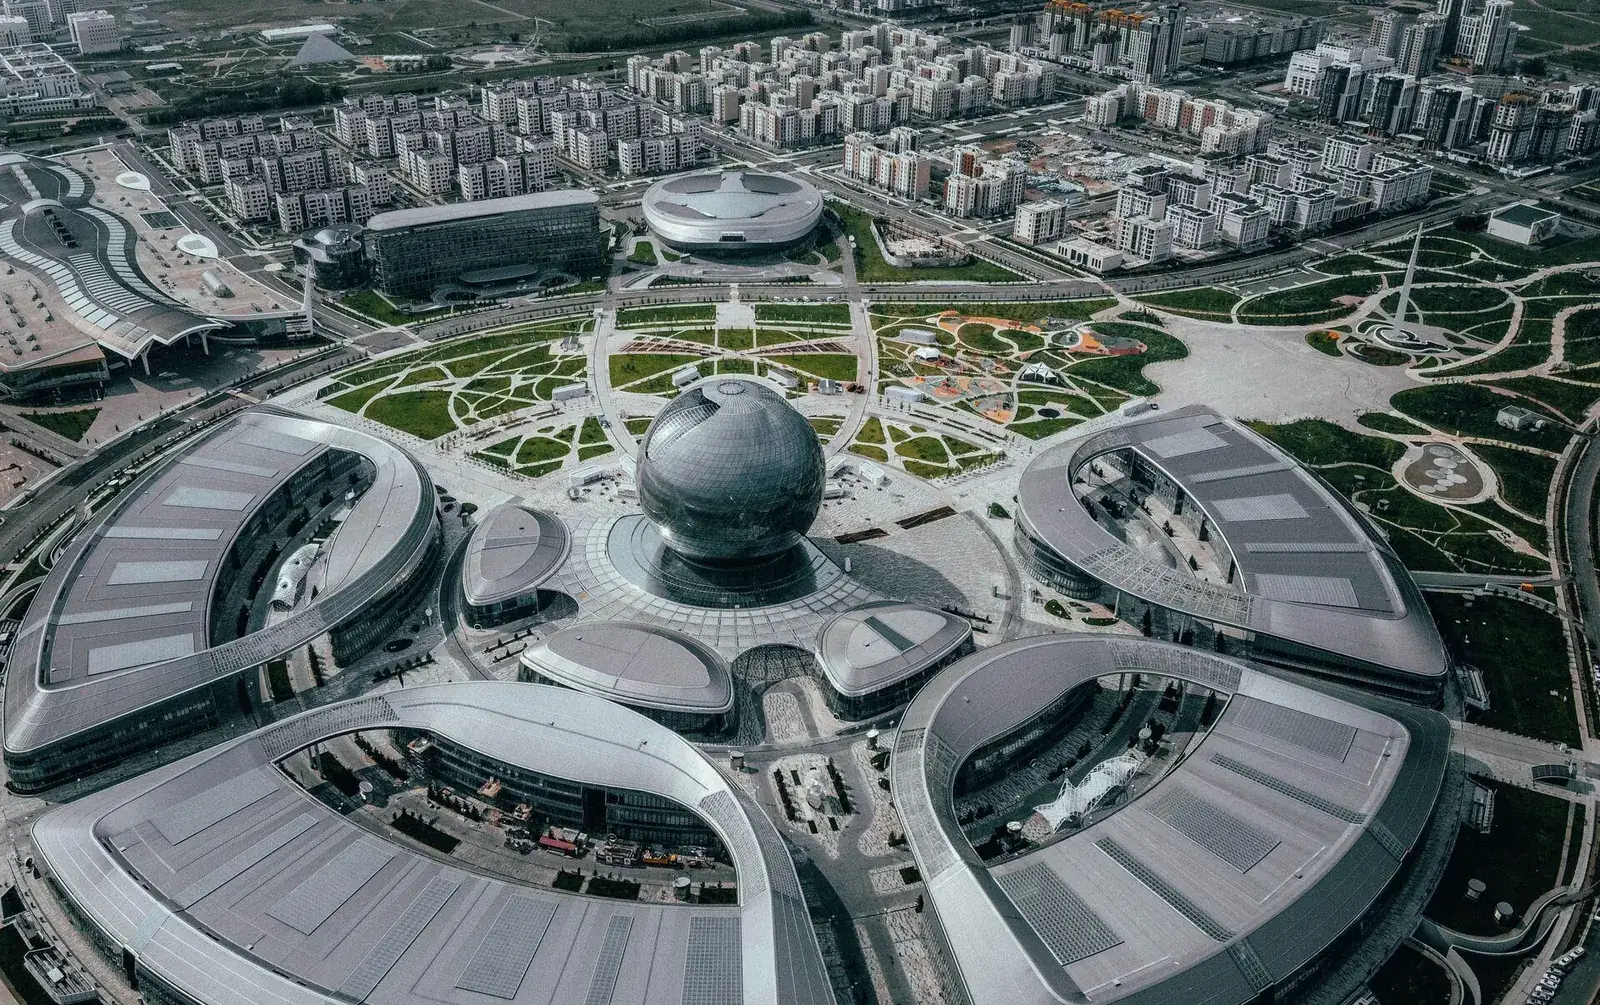
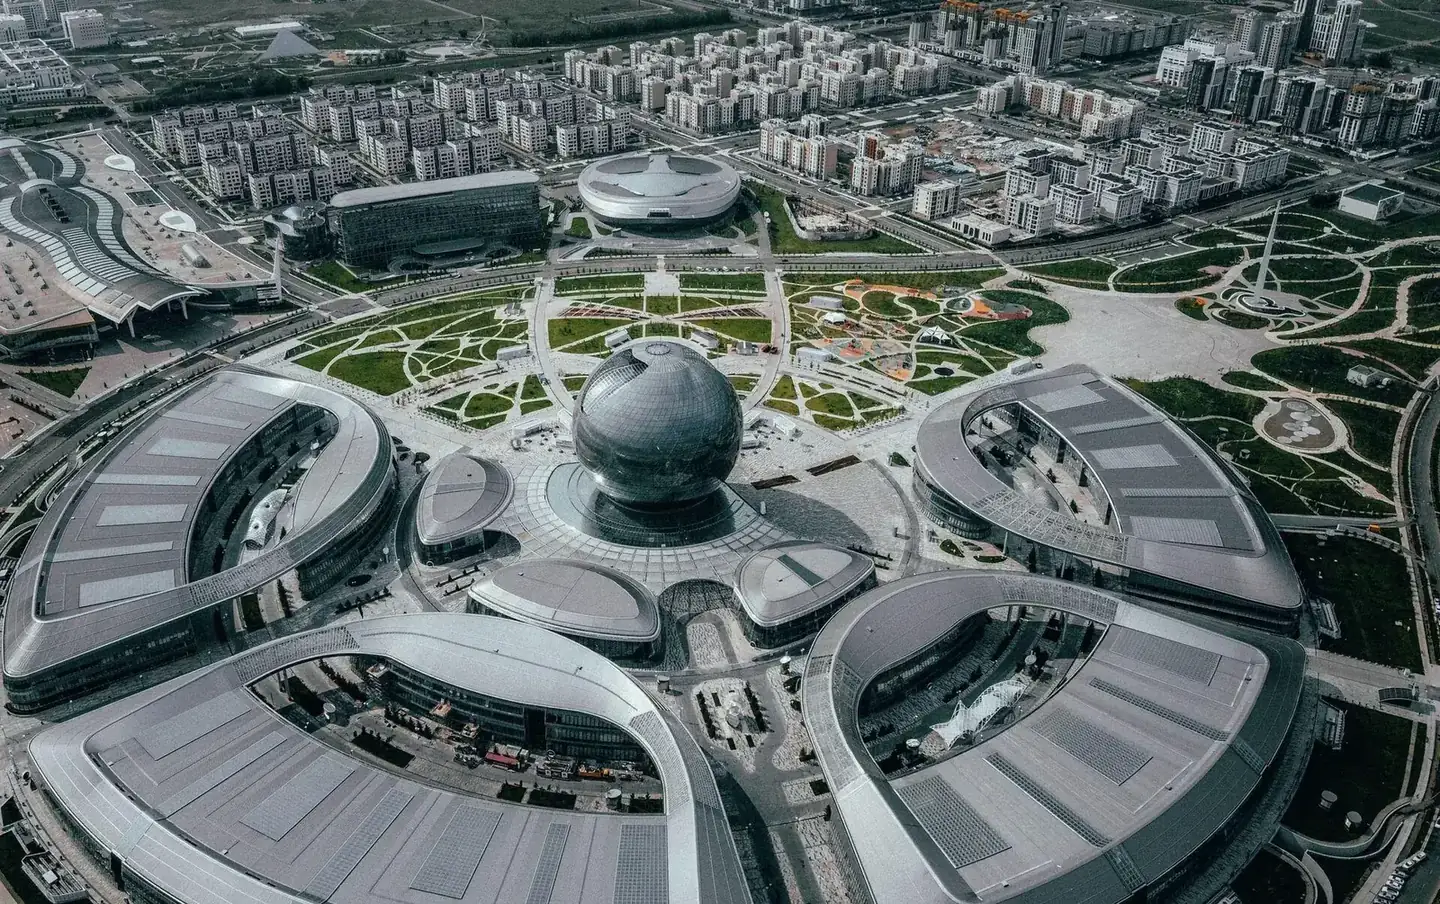
Облегчение плит: геометрия без замеров на каждом кадре, затемнённые фото готовыми файлами, шапка без размытия

diff --git a/styles.css b/styles.css
@@ -58,7 +58,7 @@ h3{font:600 20px/1.25 var(--fd)}
 .lnk:hover i{transform:translateX(4px)}
 
 /* ---------- шапка ---------- */
-.hdr{position:fixed;left:0;right:0;top:0;z-index:50;height:var(--hdr);color:#fff;background:rgba(14,16,18,.72);backdrop-filter:blur(14px);-webkit-backdrop-filter:blur(14px);transition:background .3s,box-shadow .3s}
+.hdr{position:fixed;left:0;right:0;top:0;z-index:50;height:var(--hdr);color:#fff;background:rgba(14,16,18,.9);transition:background .3s,box-shadow .3s}
 .hdr.scrolled{background:rgba(14,16,18,.92);box-shadow:0 1px 0 rgba(255,255,255,.07),0 10px 30px rgba(0,0,0,.25)}
 .hdr-in{position:relative;z-index:1;width:min(1320px,100% - 2*var(--gut));margin:0 auto;height:100%;display:flex;align-items:center;gap:18px}
 .brand{display:block;flex:0 1 auto;min-width:0;position:relative;z-index:3}
@@ -83,12 +83,12 @@ h3{font:600 20px/1.25 var(--fd)}
 .burger span:first-child{top:17px}.burger span+span{top:25px}
 body.menu-open .burger span:first-child{top:21px;transform:rotate(45deg)}
 body.menu-open .burger span+span{top:21px;transform:rotate(-45deg)}
-body.menu-open .hdr{backdrop-filter:none;-webkit-backdrop-filter:none;background:var(--ink)}
+body.menu-open .hdr{background:var(--ink)}
 /* порог бургера = порог меню: 1180px (по казахским подписям) */
 @media (max-width:1180px){.nav{display:none}.burger{display:block}.hdr-tel{display:none}}
 @media (max-width:760px){.ico-ig{display:none}:root{--hdr:62px}.brand img{height:34px}}
 @media (max-width:420px){.ico-tel{display:none}.brand img{height:30px}}
-@media (hover:none){.hdr{backdrop-filter:none;-webkit-backdrop-filter:none;background:rgba(14,16,18,.94)}}
+@media (hover:none){.hdr{background:rgba(14,16,18,.94)}}
 
 /* ---------- меню ---------- */
 .menu{position:fixed;inset:0;z-index:40;background:var(--ink);color:#fff;transform:translateY(-8px);opacity:0;visibility:hidden;transition:opacity .28s,transform .32s var(--ease),visibility 0s .32s;overflow-y:auto;overscroll-behavior:contain}
@@ -121,9 +121,8 @@ body.menu-open .sticky{visibility:hidden!important;transform:translateY(120%)!im
 /* ---------- сигнатура: след прохода. Чистый кадр поверх «грязного», вырезан полосой со скруглённым фронтом ---------- */
 .ph{position:absolute;inset:0;overflow:hidden;container-type:size;--p1:clamp(0,calc(var(--open)/.62),1);--p2:clamp(0,calc((var(--open) - .62)/.38),1);--side:calc(31cqw*(1 - var(--p2)))}
 .ph img,.ph picture{position:absolute;inset:0;width:100%;height:100%;object-fit:cover;object-position:50% 50%;display:block}
-.ph-dirty{filter:grayscale(.9) brightness(.52) contrast(.92)}
 .ph-clean{position:absolute;inset:0;overflow:hidden;clip-path:inset(-2% var(--side) calc(100% - var(--p1)*112%) var(--side) round calc(19cqw*(1 - var(--p2))));transform:scale(calc(1 + .08*var(--exit)));transform-origin:50% 50%}
-.ph-clean .wet{position:absolute;left:0;right:0;height:18%;top:calc(var(--p1)*112% - 18%);background:linear-gradient(to bottom,rgba(214,231,242,0),rgba(214,231,242,.28) 55%,rgba(255,255,255,.72) 96%,#fff);opacity:calc(1 - var(--p2));pointer-events:none}
+.ph-clean .wet{position:absolute;left:0;right:0;height:18%;top:0;transform:translateY(calc((var(--p1)*6.2222 - 1)*100%));will-change:transform,opacity;background:linear-gradient(to bottom,rgba(214,231,242,0),rgba(214,231,242,.28) 55%,rgba(255,255,255,.72) 96%,#fff);opacity:calc(1 - var(--p2));pointer-events:none}
 .ph-shade{position:absolute;inset:0;background:linear-gradient(to top,rgba(14,16,18,.9) 0,rgba(14,16,18,.55) 38%,rgba(14,16,18,.12) 70%,rgba(14,16,18,.5) 100%);pointer-events:none}
 .ph-hero{--p1:clamp(0,calc(var(--intro)/.86),1);--p2:clamp(0,calc(var(--stay)/.55),1)}
 .ph-hero .ph-clean{transform:scale(calc(1 + .05*var(--stay)))}
@@ -153,11 +152,11 @@ h1 .l2{font-size:var(--fs2,clamp(40px,min(8.6vw,13svh),128px));letter-spacing:-.
 /* ---------- продуктовые плиты ---------- */
 .prod{background:radial-gradient(120% 90% at 50% 100%,var(--tint) 0,var(--coal) 55%,var(--ink) 100%)}
 .track{position:absolute;left:50%;top:0;bottom:0;width:min(46vw,560px);transform:translateX(-50%);border-radius:0 0 300px 300px;background:linear-gradient(to bottom,rgba(255,255,255,0) 0,rgba(255,255,255,.035) 40%,rgba(255,255,255,.07) 100%);pointer-events:none}
-.track::after{content:"";position:absolute;left:8%;right:8%;bottom:8%;height:18%;border-radius:50%;background:radial-gradient(closest-side,rgba(214,231,242,.18),rgba(214,231,242,0));filter:blur(14px)}
+.track::after{content:"";position:absolute;left:8%;right:8%;bottom:8%;height:18%;border-radius:50%;background:radial-gradient(closest-side,rgba(214,231,242,.14),rgba(214,231,242,0))}
 .prod-in{justify-content:space-between;padding-bottom:clamp(28px,5svh,54px)}
 .prod .lead{max-width:none}
 .obj{position:relative;flex:1 1 0;min-height:0;display:flex;flex-direction:column;align-items:center;justify-content:center;width:100%;margin:10px 0}
-.obj img{flex:1 1 0;min-height:0;width:min(72%,620px);height:auto;max-height:100%;object-fit:contain;object-position:50% 100%;filter:drop-shadow(0 30px 40px rgba(0,0,0,.55));opacity:calc(clamp(0,calc((var(--enter) - .25)/.5),1));transform:translateY(calc(70px*(1 - clamp(0,calc((var(--enter) - .25)/.5),1)))) scale(calc(.9 + .1*clamp(0,calc((var(--enter) - .25)/.5),1)));transition:none}
+.obj img{flex:1 1 0;min-height:0;width:min(72%,620px);height:auto;max-height:100%;object-fit:contain;object-position:50% 100%;filter:drop-shadow(0 30px 40px rgba(0,0,0,.55));opacity:calc(clamp(0,calc((var(--enter) - .25)/.5),1));transform:translateY(calc(70px*(1 - clamp(0,calc((var(--enter) - .25)/.5),1))));will-change:transform,opacity;transition:none}
 .pw.settled .obj img{animation:bob 6.5s ease-in-out infinite}
 @keyframes bob{0%,100%{translate:0 0}50%{translate:0 -8px}}
 .obj figcaption{flex:0 0 auto;margin-top:12px;display:flex;align-items:center;gap:12px;font:500 13px/1 var(--fd);letter-spacing:.1em;text-transform:uppercase;color:var(--mute2)}

diff --git a/index.html b/index.html
@@ -31,7 +31,7 @@
 <link rel="stylesheet" href="https://fonts.googleapis.com/css2?family=IBM+Plex+Sans:wght@400;500;600;700&display=swap">
 <link rel="preload" as="image" href="assets/img/hero.webp" media="(min-width: 761px)" fetchpriority="high">
 <link rel="preload" as="image" href="assets/img/hero-m.webp" media="(max-width: 760px)" fetchpriority="high">
-<link rel="stylesheet" href="styles.css?v=20261015-1">
+<link rel="stylesheet" href="styles.css?v=20261015-2">
 <script type="application/ld+json">
 {
   "@context": "https://schema.org",
@@ -135,7 +135,7 @@
 <div class="pw pw-hero" id="top">
   <section class="plate hero" aria-label="Главный экран">
     <div class="ph ph-hero">
-      <picture class="ph-dirty"><source media="(max-width:760px)" srcset="assets/img/hero-m.webp"><img src="assets/img/hero.webp" alt="" width="1920" height="1175" fetchpriority="high" decoding="async"></picture>
+      <picture class="ph-dirty"><source media="(max-width:760px)" srcset="assets/img/hero-m-dirty.webp"><img src="assets/img/hero-dirty.webp" alt="" width="1280" height="783" fetchpriority="high" decoding="async"></picture>
       <picture class="ph-clean"><source media="(max-width:760px)" srcset="assets/img/hero-m.webp"><img src="assets/img/hero.webp" alt="Поломоечные райдеры Comac на складе клиента, поставка Vista Clean Technology" width="1920" height="1175" fetchpriority="high" decoding="async"><i class="wet"></i></picture>
       <div class="ph-shade"></div>
     </div>
@@ -688,7 +688,7 @@
 <div class="pw pw-photo" id="servis">
   <section class="plate photo">
     <div class="ph">
-      <img class="ph-dirty" src="assets/img/service.webp" alt="" width="1003" height="668" loading="lazy" decoding="async">
+      <img class="ph-dirty" src="assets/img/service-dirty.webp" alt="" width="1003" height="668" loading="lazy" decoding="async">
       <div class="ph-clean"><img src="assets/img/service.webp" alt="Инженеры сервис-центра Vista ремонтируют поломоечную машину" width="1003" height="668" loading="lazy" decoding="async"><i class="wet"></i></div>
       <div class="ph-shade"></div>
     </div>
@@ -743,8 +743,8 @@
 <div class="pw pw-photo" id="obekty">
   <section class="plate photo photo-obj">
     <div class="ph">
-      <img class="ph-dirty" src="assets/img/expo.webp" alt="" width="1600" height="1005" loading="lazy" decoding="async">
-      <div class="ph-clean"><img src="assets/img/expo.webp" alt="Астана, ЭКСПО с высоты: объект, укомплектованный уборочной техникой Vista" width="1600" height="1005" loading="lazy" decoding="async"><i class="wet"></i></div>
+      <img class="ph-dirty" src="assets/img/expo-dirty.webp" alt="" width="1280" height="804" loading="lazy" decoding="async">
+      <div class="ph-clean"><img src="assets/img/expo.webp" alt="Астана, ЭКСПО с высоты: объект, укомплектованный уборочной техникой Vista" width="1440" height="904" loading="lazy" decoding="async"><i class="wet"></i></div>
       <div class="ph-shade"></div>
     </div>
     <div class="pl-in photo-in">
@@ -852,6 +852,6 @@
   <a class="st-ig" href="https://www.instagram.com/vista.clean/" target="_blank" rel="noopener" aria-label="Instagram"><svg width="22" height="22" aria-hidden="true"><use href="#ic-ig"/></svg></a>
 </div>
 
-<script src="script.js?v=20261015-1" defer></script>
+<script src="script.js?v=20261015-2" defer></script>
 </body>
 </html>

diff --git a/script.js b/script.js
@@ -208,29 +208,36 @@
   var INTRO = (location.hash.length > 1 || W.pageYOffset > 80 || REDUCED) ? 1 : 0;
   var introStart = 0, ticking = false, lastTs = 0;
   var st = pws.map(function () { return { open: -1, out: {}, txts: null, on: null }; });
+  /* геометрия плит: меряем один раз и при изменении страницы, а не на каждом кадре */
+  var geo = null;
+  function measure() {
+    var y = W.pageYOffset;
+    geo = { kont: kont ? kont.getBoundingClientRect().top + y : null, pw: pws.map(function (pw) {
+      var r = pw.getBoundingClientRect(), nx = pw.nextElementSibling;
+      return { top: r.top + y, h: r.height, nxt: nx ? nx.getBoundingClientRect().top + y : null };
+    }) };
+  }
+  if ("ResizeObserver" in W) new ResizeObserver(function () { geo = null; onScroll(); }).observe(doc.body);
   function put(pw, s, k, v) { if (s.out[k] !== v) { s.out[k] = v; pw.style.setProperty(k, v); } }
   function update(ts) {
     ticking = false;
     var now = typeof ts === "number" ? ts : performance.now();
     var dt = lastTs ? Math.min(64, now - lastTs) : 16.7; lastTs = now;
     var k = 1 - Math.pow(1 - 0.2, dt / 16.7);
-    var H = VH, pageY = W.pageYOffset;
-    var kontTop = kont ? kont.getBoundingClientRect().top : null;
-    var rects = [], nxt = [], i;
-    for (i = 0; i < pws.length; i++) {
-      rects.push(pws[i].getBoundingClientRect());
-      var nx = pws[i].nextElementSibling;
-      nxt.push(nx ? nx.getBoundingClientRect().top : null);
-    }
+    var H = VH, pageY = W.pageYOffset, i;
+    if (!geo) measure();
+    var kontTop = geo.kont === null ? null : geo.kont - pageY;
     var moving = false;
     for (i = 0; i < pws.length; i++) {
-      var pw = pws[i], r = rects[i], s = st[i];
+      var pw = pws[i], g = geo.pw[i], s = st[i];
+      var r = { top: g.top - pageY, bottom: g.top + g.h - pageY, height: g.h };
+      var nxt = { i: g.nxt === null ? null : g.nxt - pageY };
       var near = r.bottom > -H * 0.5 && r.top < H * 1.5;
       var isHero = pw.classList.contains("pw-hero");
       if (!near && !isHero && s.out["--enter"] !== undefined) { continue; }
       var enter = clamp(1 - r.top / H);
       var stay = r.height > H ? clamp(-r.top / (r.height - H)) : 0;
-      var exit = nxt[i] !== null ? clamp(1 - nxt[i] / H) : 0;
+      var exit = nxt.i !== null ? clamp(1 - nxt.i / H) : 0;
       var open;
       if (isHero) open = REDUCED ? 1 : easeOut(INTRO);
       else open = REDUCED ? 1 : easeOut(smooth((enter - 0.2) / 0.64));
@@ -262,6 +269,7 @@
   function onScroll() { if (!ticking) { ticking = true; requestAnimationFrame(update); } }
   W.addEventListener("scroll", onScroll, { passive: true });
   W.addEventListener("resize", function () {
+    geo = null;
     if (W.innerWidth !== VW) { VW = W.innerWidth; VH = W.innerHeight; fitText(); }
     else if (!TOUCH) VH = W.innerHeight;
     onScroll();
